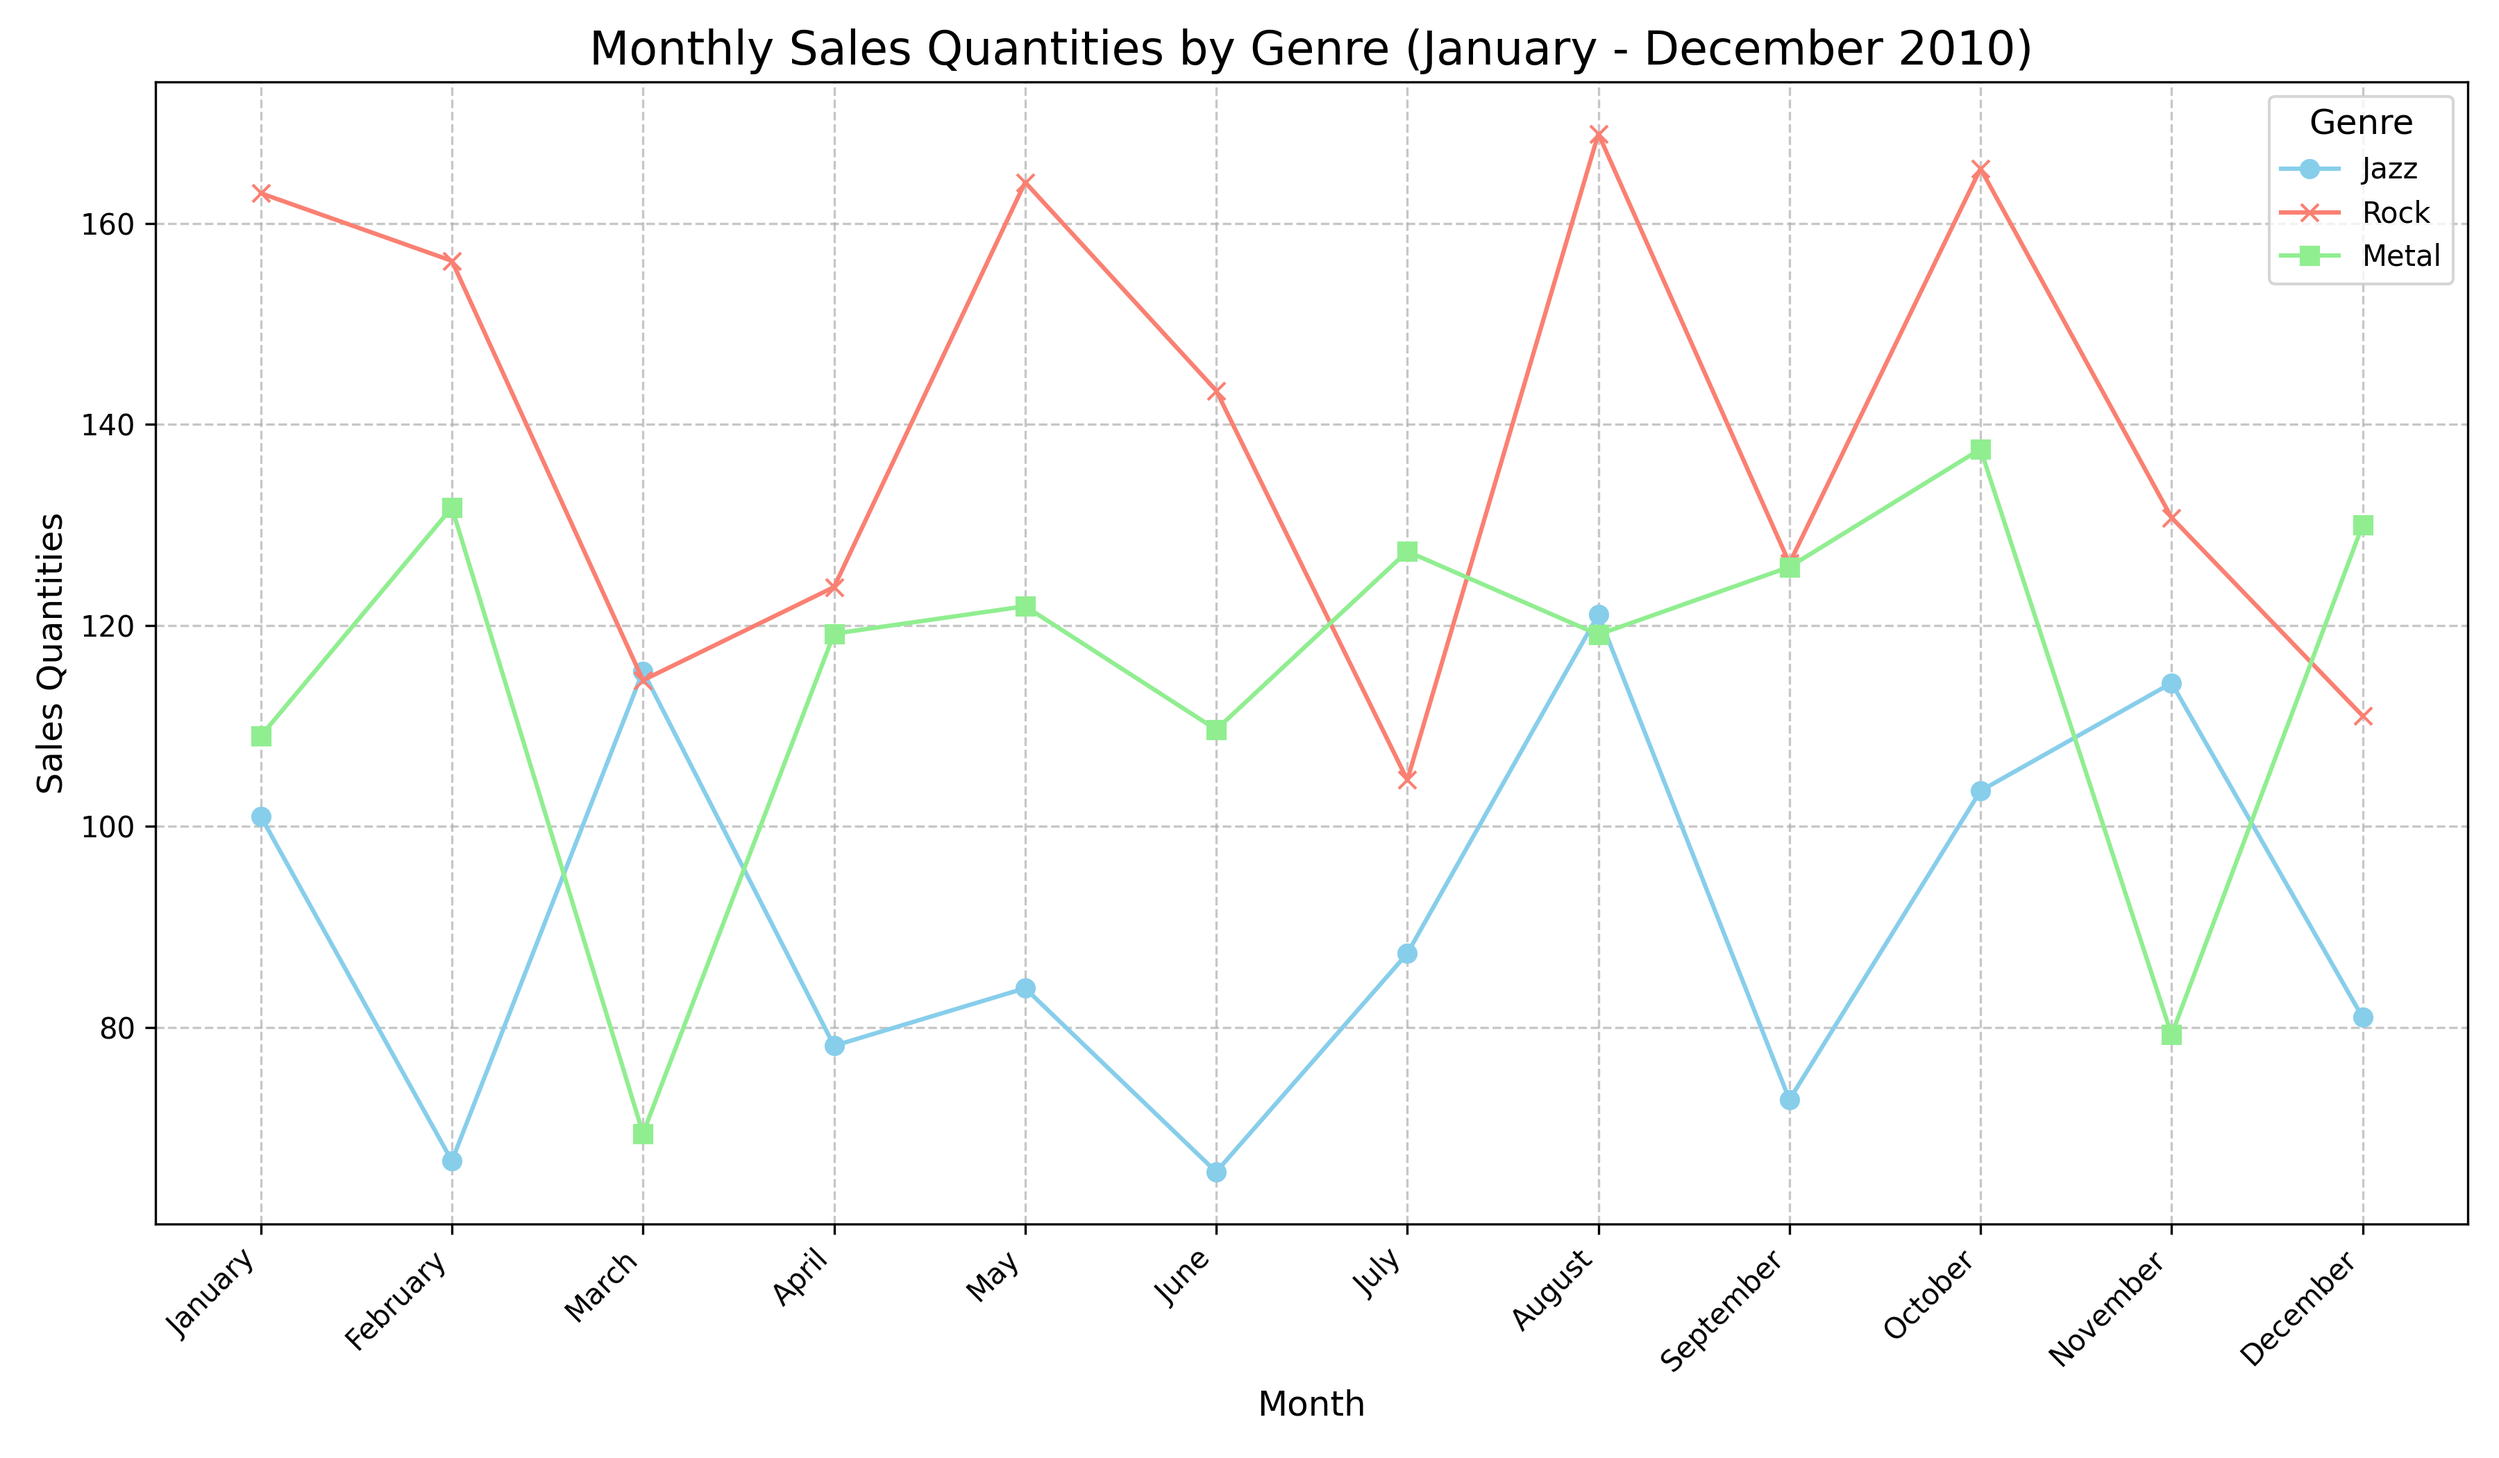
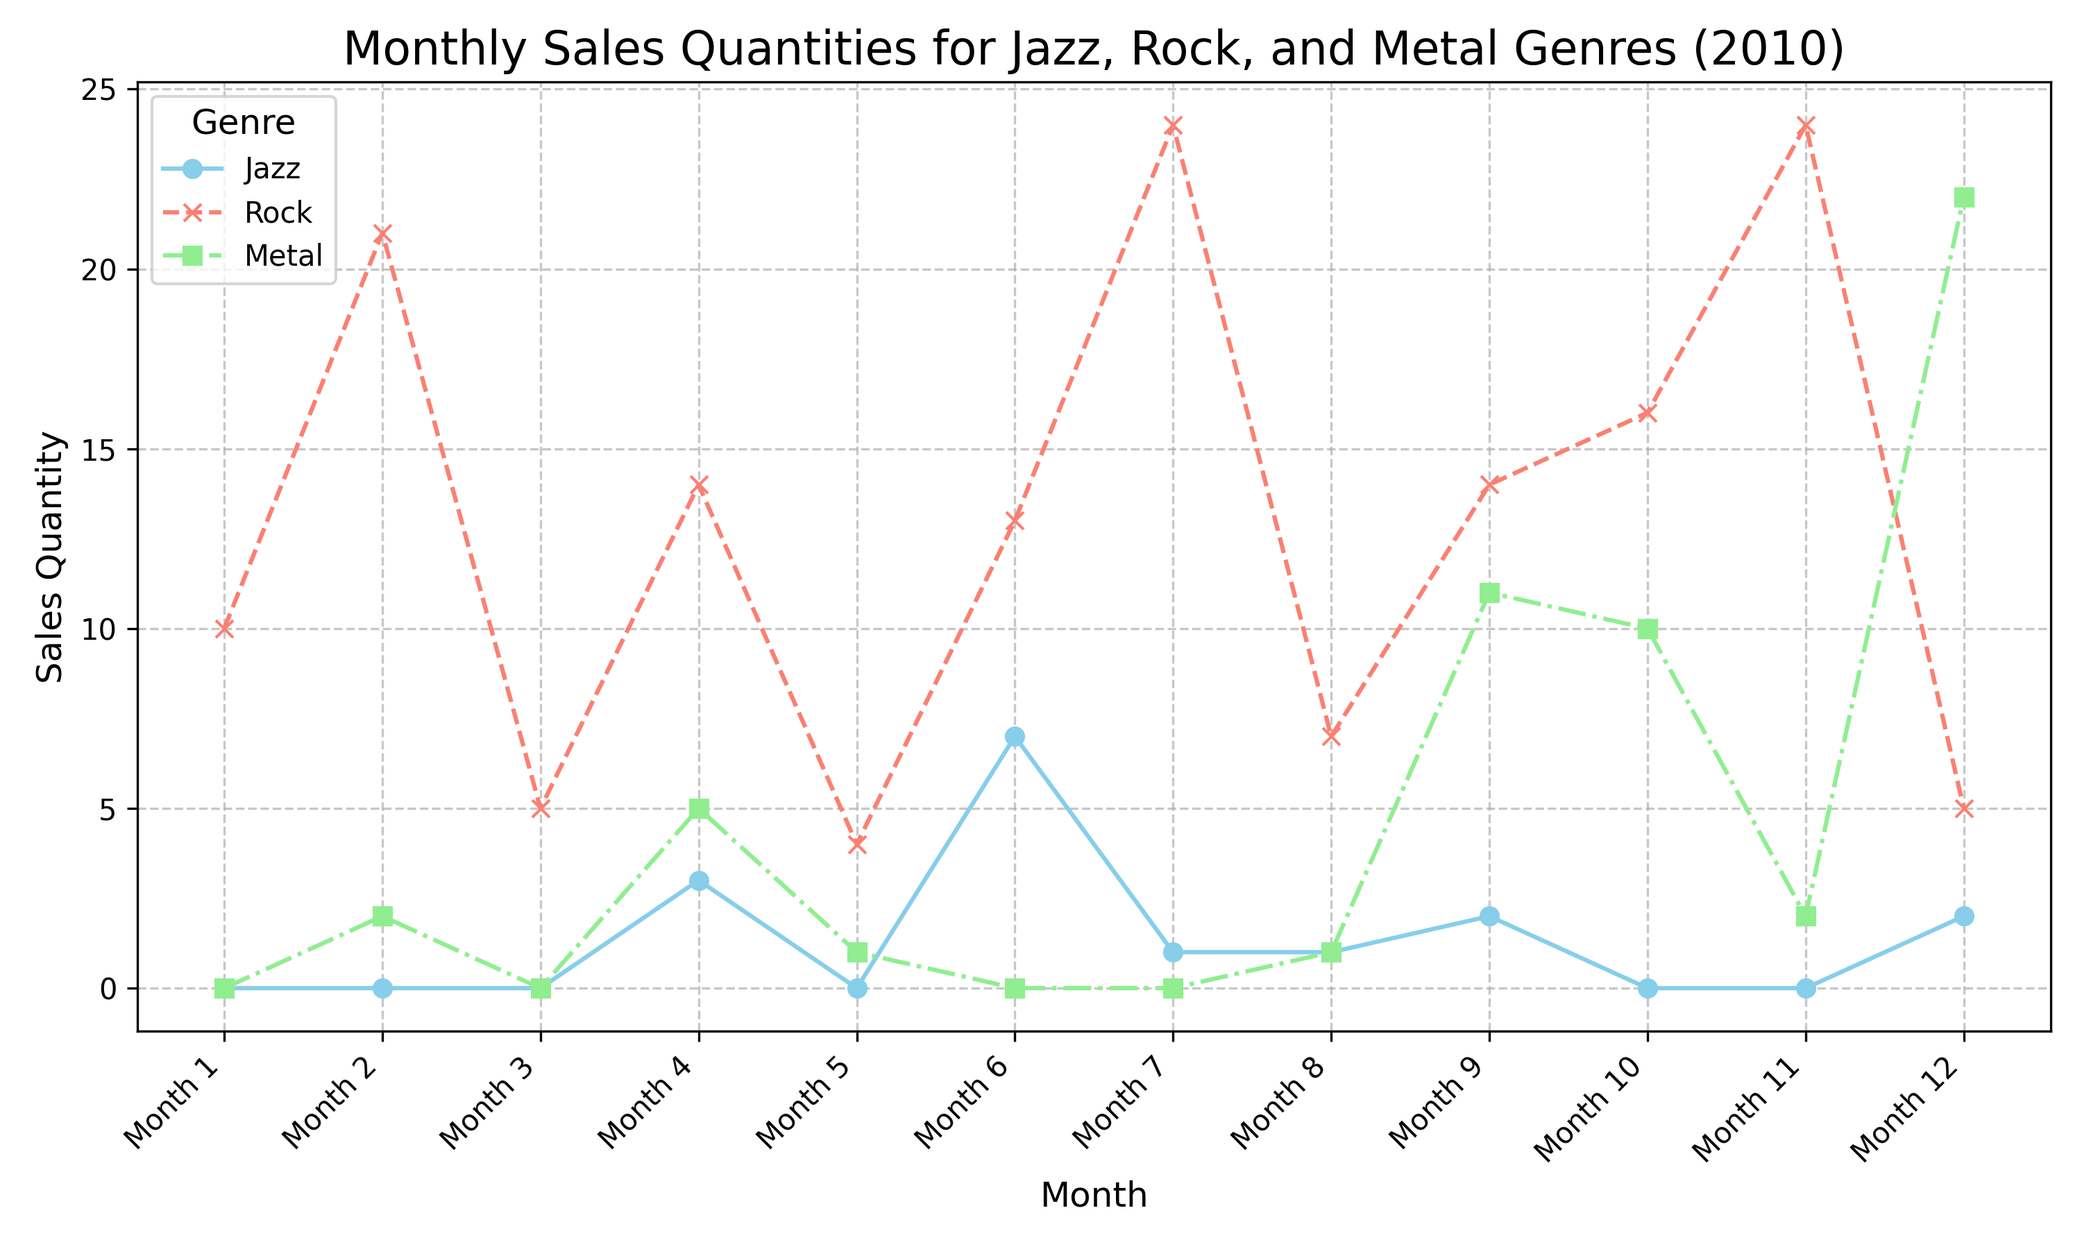
feature : supervisor answer 숨김 처리 완료

diff --git a/streamlit/01_practice/main.py b/streamlit/01_practice/main.py
@@ -166,8 +166,8 @@ def stream_handler(streamlit_container, agent_executor, inputs, config):
             ):
                 # print(f" chunk_msg : \n{chunk_msg}\n")
                 # print(f" metadata : \n{metadata}\n")
-                ## summary 랑 result 제외
                 try:
+                    ## summary와 supervisor 화면 상에서 제거
                     if chunk_msg != () and "supervisor" not in chunk_msg[0]:
 
                         _metadata = metadata[0]
@@ -197,7 +197,6 @@ def stream_handler(streamlit_container, agent_executor, inputs, config):
                                         current_tool_message["tool_name"]
                                         == "run_python_repl"
                                     ):
-                                        # print(f"metadata : {metadata} \n")
                                         filename = (
                                             metadata[0]
                                             .content.replace("Success: ", "")
@@ -212,8 +211,19 @@ def stream_handler(streamlit_container, agent_executor, inputs, config):
                                 # Accumulate agent message
                                 agent_answer += _metadata.content
                                 agent_message.markdown(agent_answer)
-                except:
-                    return "Error :"
+                except Exception as e:
+                    st.error(f"에러 발생: {str(e)}")
+        # supervisor 노드가 직접 답변하는 경우 출력하는 로직
+        try:
+            past_data = agent_executor.get_state(config).values
+            if len(past_data["messages"]) <= 3:
+                agent_answer = past_data["answer"].content
+                if agent_message is None:
+                    agent_message = st.empty()
+                agent_message.markdown(agent_answer)
+        except Exception as e:
+            st.warning(f"llm 가져오기 중 에러: {str(e)}")
+
         _tool_args = [
             tool_arg for tool_arg in tool_args if tool_arg.get("tool_result") != ""
         ]
@@ -287,6 +297,6 @@ if user_input := st.chat_input():
                 "tool_result",
                 tool_arg["tool_name"],
             )
-        print(st.session_state["chain"].get_state(config))
         add_message("assistant", agent_answer)
         # print(st.session_state["tmp_messages"])
+        # print(st.session_state["chain"].get_state(config))
